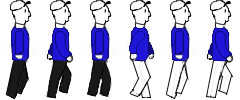
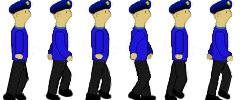
The guard is here

diff --git a/src/main/java/com/modwiz/ld31/entities/Enemy.java b/src/main/java/com/modwiz/ld31/entities/Enemy.java
@@ -43,6 +43,7 @@ public class Enemy extends Creature {
 		sneakLOS = 100;
 		fieldOfView = (float)(Math.PI / 6);
 		player = Player.getSingleton();
+		normalAnimDelay = 4; // this is a protected value from creature
     }
 
     /**
@@ -105,8 +106,8 @@ public class Enemy extends Creature {
     }
 	
 	public boolean canSeePlayer() {
-		//only can track the player when it's in the same dimension
-		if (player == null || getParent() != player.getParent()) {
+		//only can track the player when it's in the same dimension and the player ins't dead
+		if (player == null || getParent() != player.getParent() || player.isDead()) {
 			return false;
 		}
 		

diff --git a/src/main/java/com/modwiz/ld31/entities/draw/Animation.java b/src/main/java/com/modwiz/ld31/entities/draw/Animation.java
@@ -54,7 +54,6 @@ public class Animation {
 	 */
 	public void setTrack(int track) {
 		if (track != trackOn && track >= 0 && track < tracks.length) {
-			frameOn = 0;
 			frameDelayOn = 0;
 			trackOn = track;
 		}	
